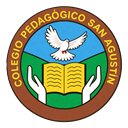
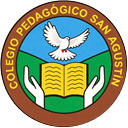
Diseño: fuente Poppins y escudo nuevo
- Poppins (la de la imagen de referencia en docs/guia.webp) en toda la app.
- En los componentes nuevos los pesos bajan a semibold, como en la
  referencia; Poppins en bold/extrabold se veía demasiado pesada.
- Escudo nuevo (docs/escudo.jpeg) recortado al círculo con fondo
  transparente: Escudo.png (600px, boletín), escudo-320 y escudo-128.

diff --git a/frontend/src/components/acudientes/EstadoCuentaCard.tsx b/frontend/src/components/acudientes/EstadoCuentaCard.tsx
@@ -20,11 +20,11 @@ const EstadoCuentaCard = ({ year, pct, totales, pension, resumen }: Props) => {
   return (
     <section className="bg-tarjeta rounded-[22px] md:rounded-[24px] p-[18px] md:p-[26px] flex flex-col gap-5 min-w-0">
       <div className="flex flex-col gap-2">
-        <h2 className="m-0 text-base md:text-[15px] font-bold md:font-normal text-tinta md:text-tinta-suave">
+        <h2 className="m-0 text-base md:text-[15px] font-semibold md:font-normal text-tinta md:text-tinta-suave">
           Estado de cuenta {year}
         </h2>
         <div className="hidden md:flex items-center gap-3">
-          <span className="text-[30px] font-extrabold">{pct}%</span>
+          <span className="text-[30px] font-semibold">{pct}%</span>
           <EstadoBadge tono="verde" tamano="md">pagado</EstadoBadge>
         </div>
         {pension !== null && <span className="hidden md:block text-sm text-tinta-suave">Pensión {fmt(pension)} / mes</span>}
@@ -50,16 +50,16 @@ const EstadoCuentaCard = ({ year, pct, totales, pension, resumen }: Props) => {
               <span className="text-xs text-tinta-suave">
                 {proxima.cuenta.estado === 'VENCIDO' ? 'Pago vencido' : 'Próximo pago'}
               </span>
-              <span className="text-sm md:text-[15px] font-bold">
+              <span className="text-sm md:text-[15px] font-semibold">
                 {proxima.nombre} · <span className="whitespace-nowrap">{fmt(proxima.saldo)}</span>
               </span>
             </div>
-            <span className="px-3 py-1.5 rounded-lg bg-tinta text-white text-xs font-bold whitespace-nowrap shrink-0">
+            <span className="px-3 py-1.5 rounded-lg bg-tinta text-white text-xs font-semibold whitespace-nowrap shrink-0">
               {proxima.cuenta.estado === 'VENCIDO' ? 'Vencido' : 'Pendiente'}
             </span>
           </>
         ) : (
-          <div className="flex items-center gap-2 text-sm font-bold text-verde-texto">
+          <div className="flex items-center gap-2 text-sm font-semibold text-verde-texto">
             <span aria-hidden="true" className="material-symbols-outlined text-xl">check_circle</span>
             Todo al día
           </div>

diff --git a/frontend/src/components/ds/PageHeader.tsx b/frontend/src/components/ds/PageHeader.tsx
@@ -30,7 +30,7 @@ const PageHeader = ({ titulo, acciones }: Props) => {
           <img src="/escudo-128.png" alt="" width={42} height={42}
             className="lg:hidden w-[42px] h-[42px] rounded-full object-cover shrink-0" />
           <div className="flex flex-col min-w-0">
-            <h1 className="m-0 text-lg lg:text-[26px] font-extrabold tracking-tight text-tinta truncate">{titulo}</h1>
+            <h1 className="m-0 text-lg lg:text-[26px] font-semibold tracking-tight text-tinta truncate">{titulo}</h1>
             <span className="text-xs lg:text-[15px] text-tinta-suave">
               <span className="lg:hidden">{fechaCorta()}</span>
               <span className="hidden lg:inline">{fechaLarga()}</span>
@@ -39,7 +39,7 @@ const PageHeader = ({ titulo, acciones }: Props) => {
         </div>
         {/* Celular: solo iniciales */}
         <span title={`${nombre} · ${rol}`} aria-label={`${nombre}, ${rol}`} role="img"
-          className="lg:hidden w-11 h-11 rounded-full bg-vino-suave text-vino font-extrabold text-[13px]
+          className="lg:hidden w-11 h-11 rounded-full bg-vino-suave text-vino font-semibold text-[13px]
             flex items-center justify-center shrink-0">
           {iniciales(nombre)}
         </span>
@@ -50,11 +50,11 @@ const PageHeader = ({ titulo, acciones }: Props) => {
         {/* Escritorio: iniciales + nombre + rol */}
         <div className="hidden lg:flex items-center gap-2.5 min-h-[52px] pl-1.5 pr-[18px] py-1.5 rounded-full bg-tarjeta">
           <span aria-hidden="true"
-            className="w-10 h-10 rounded-full bg-vino-suave text-vino font-extrabold text-sm flex items-center justify-center">
+            className="w-10 h-10 rounded-full bg-vino-suave text-vino font-semibold text-sm flex items-center justify-center">
             {iniciales(nombre)}
           </span>
           <span className="flex flex-col">
-            <span className="text-sm font-bold text-tinta max-w-[200px] truncate">{nombre}</span>
+            <span className="text-sm font-semibold text-tinta max-w-[200px] truncate">{nombre}</span>
             <span className="text-xs text-tinta-suave">{rol}</span>
           </span>
         </div>

diff --git a/frontend/src/components/ds/AppLayout.tsx b/frontend/src/components/ds/AppLayout.tsx
@@ -18,7 +18,7 @@ const Icono = ({ nombre, className = '' }: { nombre: string; className?: string 
 
 const claseLateral = (activo: boolean) =>
   `flex items-center gap-3 min-h-12 px-3.5 rounded-[14px] text-[15px] transition-colors ${
-    activo ? 'bg-vino-suave text-vino font-bold' : 'text-tinta-media font-medium hover:bg-crema hover:text-tinta'
+    activo ? 'bg-vino-suave text-vino font-semibold' : 'text-tinta-media font-medium hover:bg-crema hover:text-tinta'
   }`;
 
 const MenuLateral = ({ items, onSalir }: { items: NavItem[]; onSalir: () => void }) => (
@@ -28,7 +28,7 @@ const MenuLateral = ({ items, onSalir }: { items: NavItem[]; onSalir: () => void
       <img src="/escudo-128.png" alt="Escudo Colegio Pedagógico San Agustín" width={44} height={44}
         className="w-11 h-11 rounded-full object-cover" />
       <div className="flex flex-col">
-        <span className="text-[19px] font-extrabold tracking-tight text-tinta">SIGESA</span>
+        <span className="text-[19px] font-semibold tracking-tight text-tinta">SIGESA</span>
         <span className="text-xs text-tinta-suave">San Agustín</span>
       </div>
     </div>
@@ -56,7 +56,7 @@ const MenuLateral = ({ items, onSalir }: { items: NavItem[]; onSalir: () => void
 
 const claseBarra = (activo: boolean) =>
   `min-h-14 rounded-[18px] flex flex-col items-center justify-center gap-0.5 px-1 text-[11px] leading-tight
-   text-center transition-colors ${activo ? 'bg-vino-suave text-vino font-bold' : 'text-tinta-media font-semibold'}`;
+   text-center transition-colors ${activo ? 'bg-vino-suave text-vino font-semibold' : 'text-tinta-media font-semibold'}`;
 
 const BarraMovil = ({ items, onSalir }: { items: NavItem[]; onSalir: () => void }) => {
   const [masAbierto, setMasAbierto] = useState(false);

diff --git a/frontend/src/pages/acudiente/AcudientePage.tsx b/frontend/src/pages/acudiente/AcudientePage.tsx
@@ -18,7 +18,7 @@ const Aviso = ({ icono, titulo, texto, children }: {
 }) => (
   <div className="bg-tarjeta rounded-card py-14 px-6 flex flex-col items-center gap-3 text-center">
     <span aria-hidden="true" className="material-symbols-outlined text-5xl text-tinta-suave">{icono}</span>
-    <p className="text-sm font-bold text-tinta">{titulo}</p>
+    <p className="text-sm font-semibold text-tinta">{titulo}</p>
     {texto && <p className="text-sm text-tinta-suave max-w-sm">{texto}</p>}
     {children}
   </div>
@@ -54,7 +54,7 @@ const AcudientePage = () => {
         <PageHeader titulo="Mis pagos" />
         <Aviso icono="error" titulo="No se pudo cargar la información" texto={error}>
           <button type="button" onClick={refresh}
-            className="mt-2 min-h-11 px-5 rounded-xl bg-tinta text-white text-sm font-bold flex items-center gap-2">
+            className="mt-2 min-h-11 px-5 rounded-xl bg-tinta text-white text-sm font-semibold flex items-center gap-2">
             <span aria-hidden="true" className="material-symbols-outlined text-lg">refresh</span>
             Reintentar
           </button>
@@ -108,7 +108,7 @@ const AcudientePage = () => {
       {matricula && resumenError && !isLoadingResumen && (
         <Aviso icono="error" titulo="No se pudieron cargar los pagos" texto={resumenError}>
           <button type="button" onClick={refresh}
-            className="mt-2 min-h-11 px-5 rounded-xl bg-tinta text-white text-sm font-bold">Reintentar</button>
+            className="mt-2 min-h-11 px-5 rounded-xl bg-tinta text-white text-sm font-semibold">Reintentar</button>
         </Aviso>
       )}
 

diff --git a/frontend/src/components/acudientes/PagosPorMes.tsx b/frontend/src/components/acudientes/PagosPorMes.tsx
@@ -13,7 +13,7 @@ const PagosPorMes = ({ cuotas }: { cuotas: Cuota[] }) => {
   return (
     <section className="bg-tarjeta rounded-[24px] p-[26px] flex flex-col gap-5 min-w-0">
       <div className="flex flex-wrap justify-between items-center gap-3">
-        <h2 className="m-0 text-xl font-bold">Pagos por mes</h2>
+        <h2 className="m-0 text-xl font-semibold">Pagos por mes</h2>
         <ul className="flex gap-4 text-[13px] text-tinta-suave">
           <li className="flex items-center gap-1.5"><span aria-hidden="true" className="w-2.5 h-2.5 rounded-[3px] bg-verde" />Pagado</li>
           <li className="flex items-center gap-1.5"><span aria-hidden="true" className="w-2.5 h-2.5 rounded-[3px] bg-dorado" />Pendiente</li>
@@ -37,7 +37,7 @@ const PagosPorMes = ({ cuotas }: { cuotas: Cuota[] }) => {
                   <div role="tooltip"
                     className={`absolute bottom-full mb-1 z-10 w-max max-w-[200px] bg-tinta text-white text-xs rounded-lg px-3 py-2
                       ${i > cuotas.length / 2 ? 'right-0' : 'left-0'}`}>
-                    <p className="font-bold">{c.nombre}</p>
+                    <p className="font-semibold">{c.nombre}</p>
                     <p>Pagado: {fmt(c.pagado)}</p>
                     {c.saldo > 0 && <p>Pendiente: {fmt(c.saldo)}</p>}
                   </div>

diff --git a/frontend/src/components/acudientes/DetalleCuotas.tsx b/frontend/src/components/acudientes/DetalleCuotas.tsx
@@ -27,7 +27,7 @@ const PagosDeCuota = ({ cuota }: { cuota: Cuota }) => (
           <span className="text-tinta-media">
             {fecha(p.fecha_pago)} · <span className="text-tinta-suave">{p.metodo.nombre.toLowerCase()}</span>
           </span>
-          <span className="font-bold text-verde-texto tabular-nums">{fmt(Number(p.monto_pago))}</span>
+          <span className="font-semibold text-verde-texto tabular-nums">{fmt(Number(p.monto_pago))}</span>
         </li>
       ))}
     </ul>
@@ -37,7 +37,7 @@ const PagosDeCuota = ({ cuota }: { cuota: Cuota }) => (
 const DetalleCuotas = ({ cuotas, year }: { cuotas: Cuota[]; year: number }) => (
   <section className="bg-tarjeta rounded-[22px] md:rounded-[24px] px-[18px] pt-[18px] pb-1.5 md:px-[26px] md:pt-[26px] md:pb-2.5 flex flex-col gap-3 md:gap-4">
     <div className="flex flex-wrap justify-between items-center gap-3">
-      <h2 className="m-0 text-base md:text-xl font-bold">Detalle de cuotas</h2>
+      <h2 className="m-0 text-base md:text-xl font-semibold">Detalle de cuotas</h2>
       <span className="hidden md:inline-block px-[18px] py-2.5 rounded-full bg-vino-suave text-vino text-sm font-semibold">
         Año {year}
       </span>

diff --git a/frontend/src/components/ds/HeroBanner.tsx b/frontend/src/components/ds/HeroBanner.tsx
@@ -25,13 +25,13 @@ const HeroBanner = ({ etiqueta, titulo, chips = [], escudo = false, children }: 
 
     <div className="relative flex flex-col gap-2.5 min-w-0 max-w-[620px]">
       {etiqueta && <span className="text-[13px] sm:text-sm font-medium text-[#FBEFE6]">{etiqueta}</span>}
-      <h2 className="m-0 text-[22px] sm:text-[32px] font-bold tracking-tight leading-tight break-words">{titulo}</h2>
+      <h2 className="m-0 text-[22px] sm:text-[32px] font-semibold tracking-tight leading-tight break-words">{titulo}</h2>
       {chips.length > 0 && (
         <ul className="flex flex-wrap gap-1.5 sm:gap-2 mt-1 sm:mt-1.5">
           {chips.map((c) => (
             <li key={c.texto}
               className={`px-3 py-1.5 sm:px-3.5 sm:py-2 rounded-full text-xs sm:text-[13px]
-                ${c.destacado ? 'bg-white text-verde-texto font-bold' : 'bg-white/20 font-semibold'}`}>
+                ${c.destacado ? 'bg-white text-verde-texto font-semibold' : 'bg-white/20 font-semibold'}`}>
               {c.destacado && <span aria-hidden="true">● </span>}
               {c.texto}
             </li>

diff --git a/frontend/src/components/acudientes/Selectores.tsx b/frontend/src/components/acudientes/Selectores.tsx
@@ -5,7 +5,7 @@ import { matriculasPorAnio } from './cuotas';
 
 const pildora = (activa: boolean) =>
   `min-h-11 px-[18px] rounded-full text-sm transition-colors whitespace-nowrap ${
-    activa ? 'bg-verde text-white font-bold' : 'text-tinta-media font-semibold hover:bg-crema'
+    activa ? 'bg-verde text-white font-semibold' : 'text-tinta-media font-semibold hover:bg-crema'
   }`;
 
 export const SelectorAnio = ({ matriculas, seleccionada, onSelect }: {
@@ -44,7 +44,7 @@ export const SelectorEstudiante = ({ estudiantes, seleccionado, onSelect }: {
         return (
           <button key={e.numero_identidad} type="button" onClick={() => onSelect(e)} aria-pressed={activo}
             className={`min-h-11 px-4 rounded-full text-sm max-w-full truncate transition-colors ${
-              activo ? 'bg-vino text-white font-bold' : 'bg-tarjeta text-tinta-media font-semibold hover:text-tinta'
+              activo ? 'bg-vino text-white font-semibold' : 'bg-tarjeta text-tinta-media font-semibold hover:text-tinta'
             }`}>
             {e.nombre}
           </button>

diff --git a/frontend/src/index.css b/frontend/src/index.css
@@ -1,4 +1,4 @@
-@import url('https://fonts.googleapis.com/css2?family=Plus+Jakarta+Sans:wght@400;500;600;700;800&display=swap');
+@import url('https://fonts.googleapis.com/css2?family=Poppins:wght@400;500;600;700&display=swap');
 @import url('https://fonts.googleapis.com/css2?family=Material+Symbols+Outlined:wght,FILL@100..700,0..1&display=swap');
 
 @tailwind base;
@@ -40,7 +40,7 @@
     -webkit-text-size-adjust: 100%;
   }
   body {
-    font-family: 'Plus Jakarta Sans', system-ui, sans-serif;
+    font-family: 'Poppins', system-ui, sans-serif;
     background-color: rgb(var(--crema));
     color: rgb(var(--tinta));
     -webkit-font-smoothing: antialiased;

diff --git a/frontend/src/components/ds/DataTable.tsx b/frontend/src/components/ds/DataTable.tsx
@@ -127,7 +127,7 @@ function DataTable<T>({
               <div className="flex items-center justify-between gap-3">
                 <div className="flex flex-col gap-0.5 min-w-0">
                   {porRol('titulo').map((c) => (
-                    <span key={c.id} className="text-sm font-bold text-tinta break-words">{textoDe(c, f)}</span>
+                    <span key={c.id} className="text-sm font-semibold text-tinta break-words">{textoDe(c, f)}</span>
                   ))}
                   {subtitulos.length > 0 && (
                     <span className="text-xs text-tinta-suave break-words">

diff --git a/frontend/src/components/ds/EstadoBadge.tsx b/frontend/src/components/ds/EstadoBadge.tsx
@@ -12,7 +12,7 @@ const EstadoBadge = ({ estado, tono, children, punto = false, tamano = 'sm' }: P
   const color = TONO_SUAVE[meta?.tono ?? tono ?? 'neutro'];
 
   return (
-    <span className={`inline-flex items-center gap-1.5 whitespace-nowrap rounded-full font-bold
+    <span className={`inline-flex items-center gap-1.5 whitespace-nowrap rounded-full font-semibold
       ${tamano === 'sm' ? 'px-3 py-1 text-xs' : 'px-3.5 py-1.5 text-[13px]'} ${color}`}>
       {punto && <span aria-hidden="true" className="w-1.5 h-1.5 rounded-full bg-current" />}
       {meta ? meta.texto : children}

diff --git a/frontend/src/components/ds/StatCard.tsx b/frontend/src/components/ds/StatCard.tsx
@@ -29,7 +29,7 @@ const StatCard = ({ icono, etiqueta, valor, tono = 'vino', chip, chipTono }: Pro
     </div>
     <div className="flex flex-col gap-0.5 sm:gap-1.5 min-w-0">
       <span className="text-xs sm:text-sm text-tinta-suave">{etiqueta}</span>
-      <span className="text-lg sm:text-[26px] font-extrabold tracking-tight leading-tight break-words">{valor}</span>
+      <span className="text-lg sm:text-[26px] font-semibold tracking-tight leading-tight break-words">{valor}</span>
     </div>
   </div>
 );
